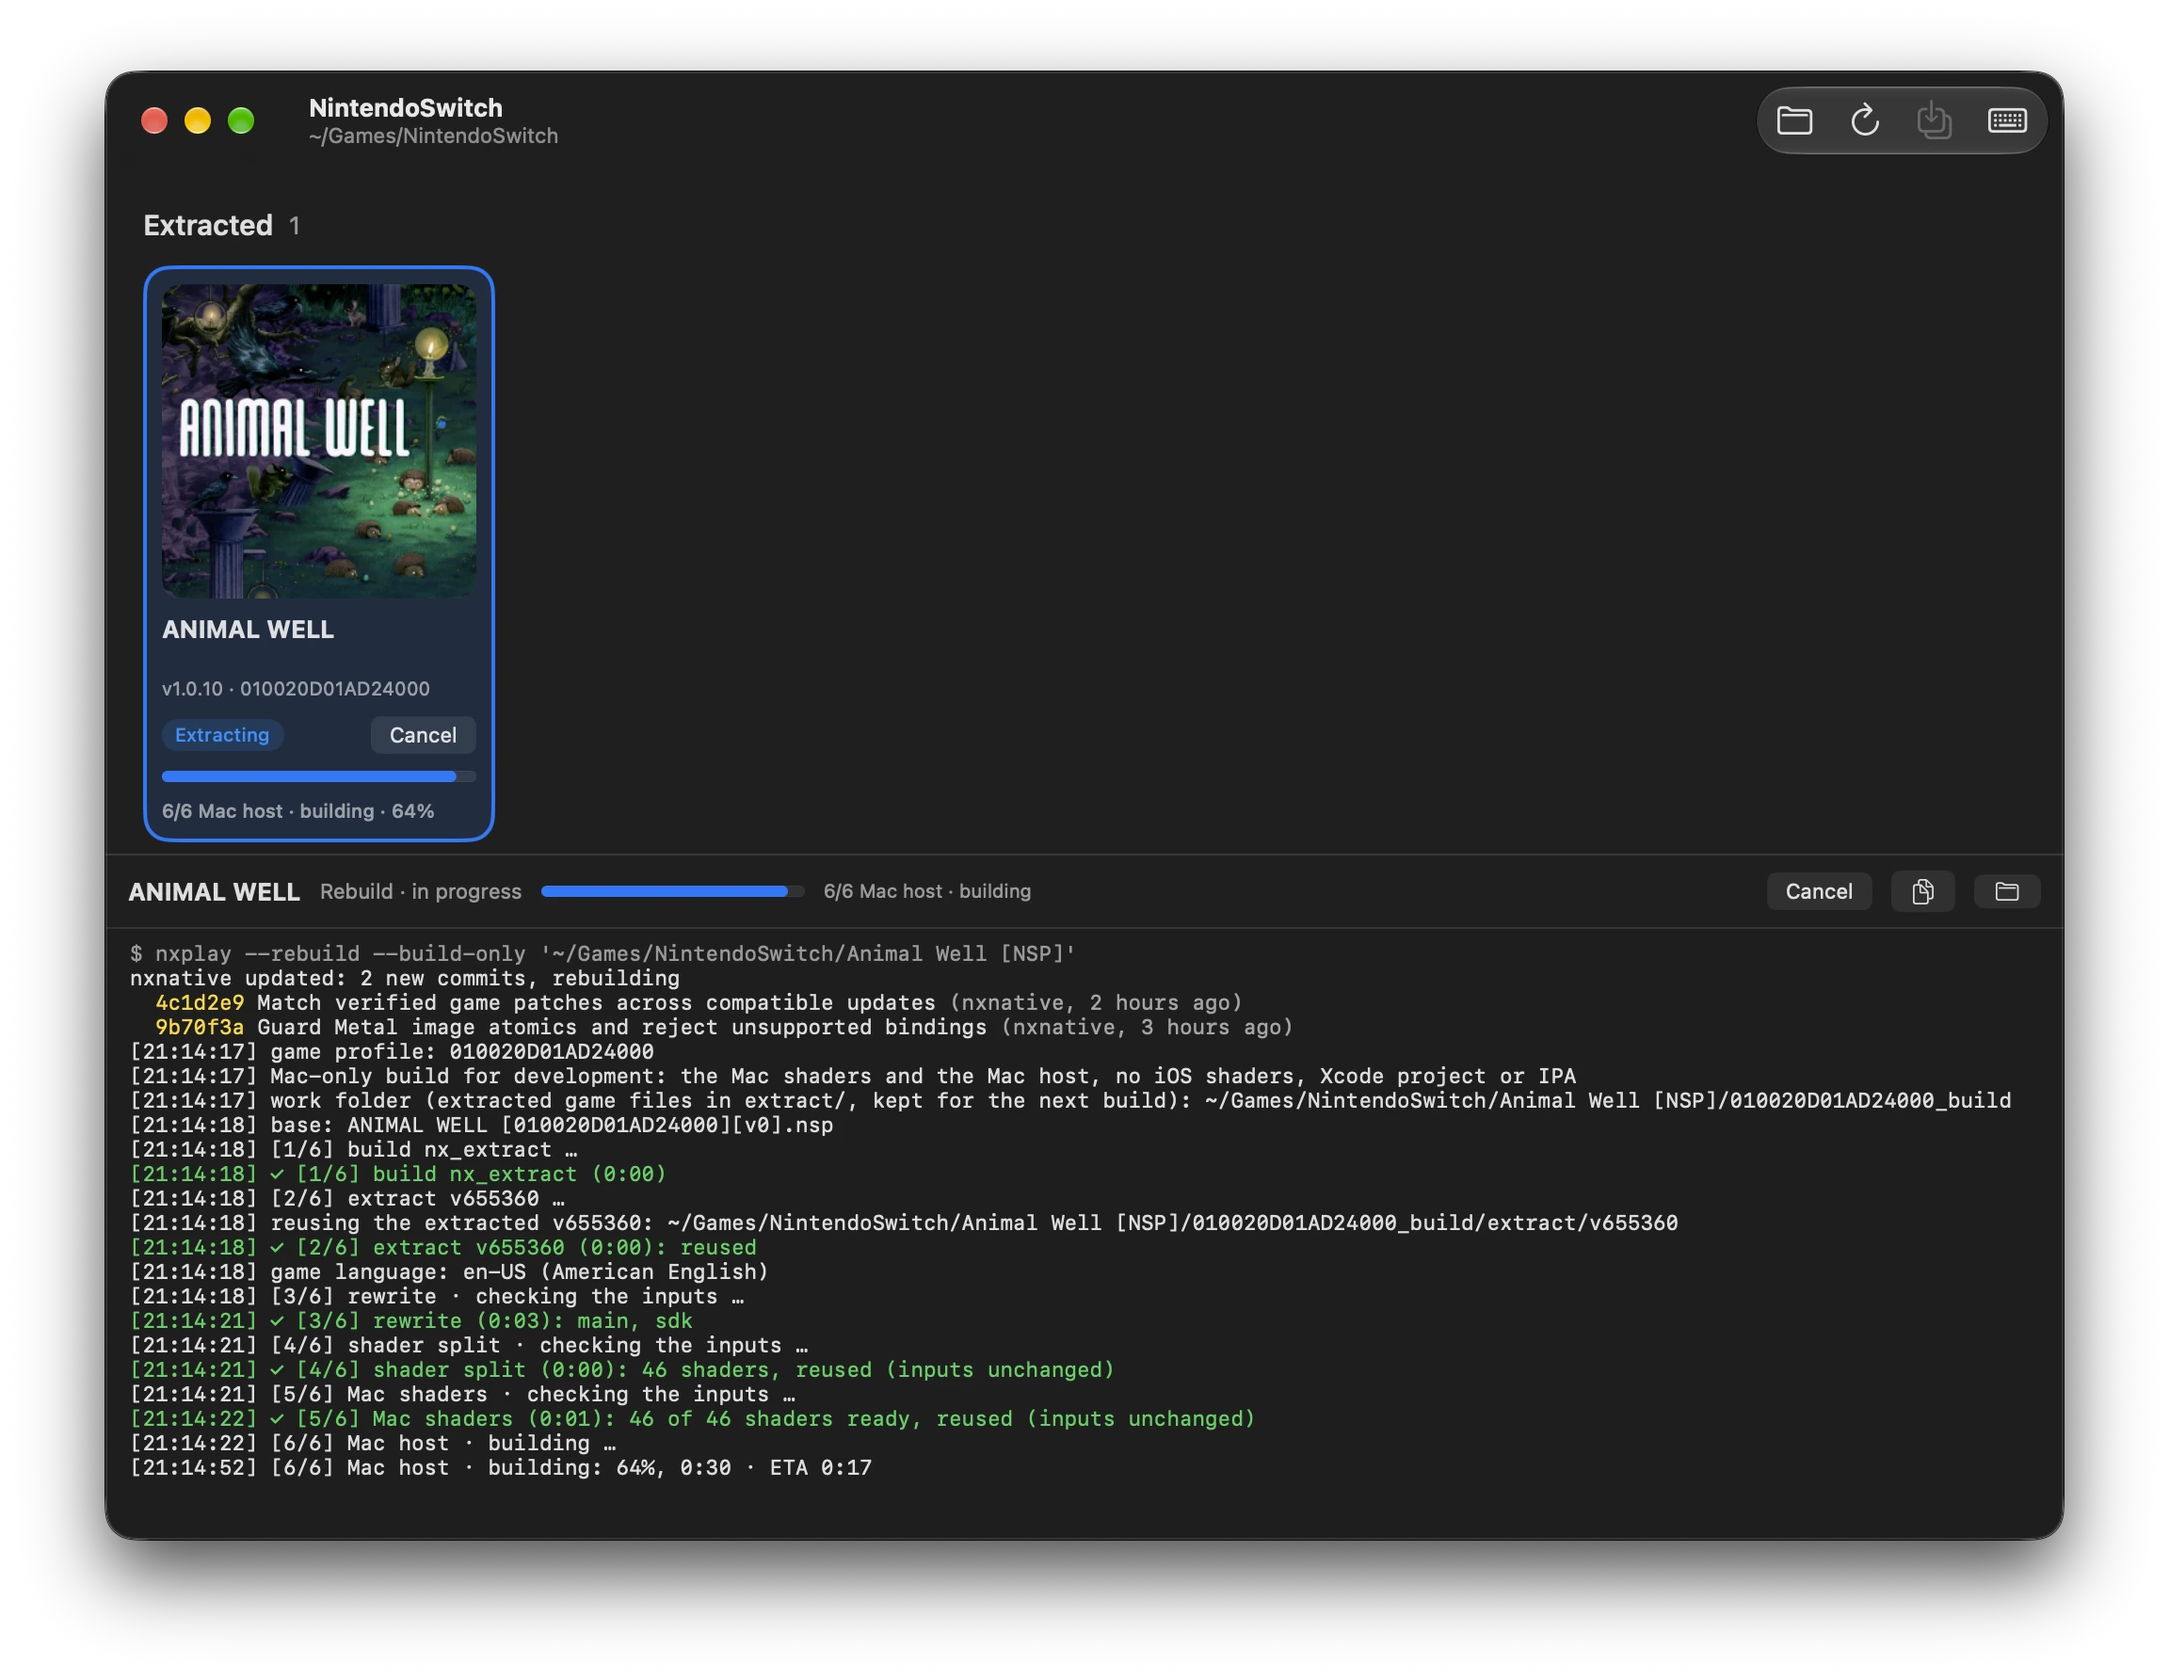
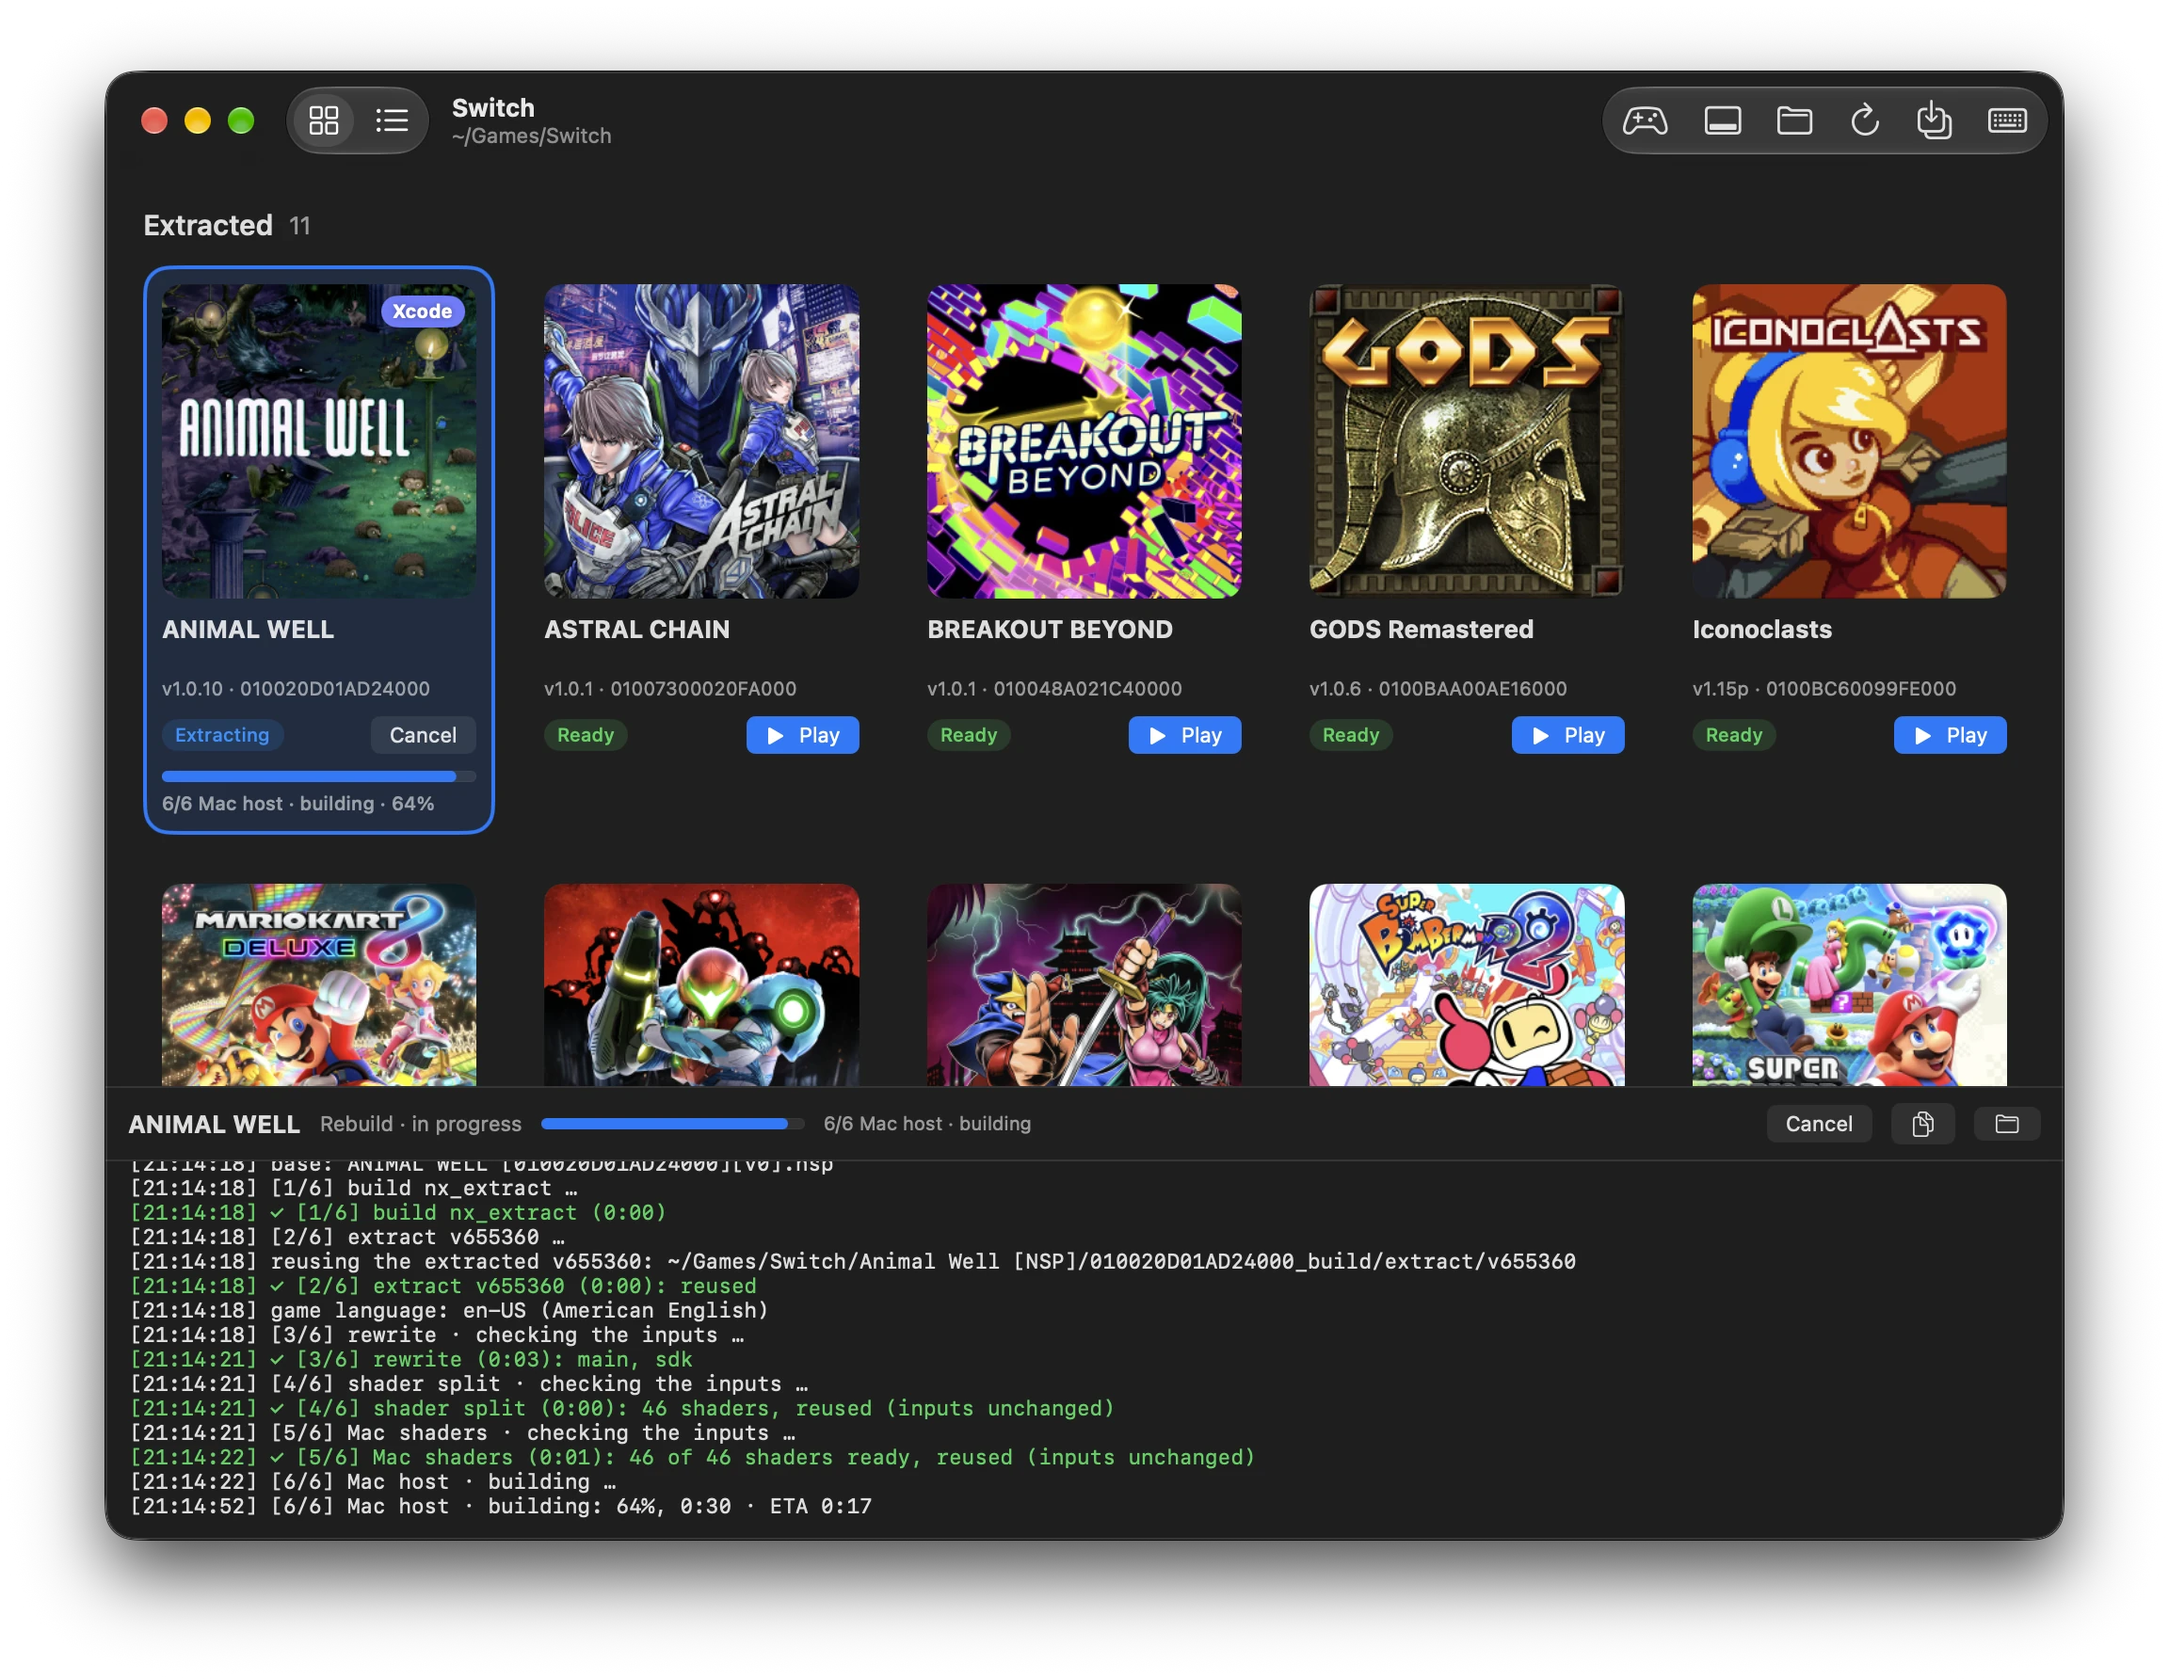
Screenshot the list, Console Mode and Free Up Space
The README showed only the grid, Settings and Transfer Saves, none of what came since. Screenshot mode gains those scenes, a sample controller for Console Mode's hints, and Console Mode in a window rather than across a whole screen; all six now come from ~/Games/Switch.

diff --git a/Packages/NXPlayKit/Sources/NXPlayKit/Screenshots.swift b/Packages/NXPlayKit/Sources/NXPlayKit/Screenshots.swift
@@ -10,6 +10,9 @@
     /// no Xcode accounts, and the settings go to a throwaway defaults suite.
     enum ScreenshotScene: String, CaseIterable {
         case library
+        case list
+        case console
+        case freeUpSpace = "free-up-space"
         case settings
         case transferSaves = "transfer-saves"
     }
@@ -57,8 +60,15 @@
             library.devices = Self.devices
             library.root = root
             library.screenshotScene = scene
+            library.allowOtherMetal = true
+            library.showsLog = scene != .list
 
-            guard let game = library.games.first(where: \.isExtracted) else {
+            // the game the scene is about: one built for the Mac, with its icon, else any extracted one
+            let extracted = library.games.filter(\.isExtracted)
+            guard
+                let game = extracted.first(where: { $0.state == .ready && $0.iconURL != nil })
+                    ?? extracted.first
+            else {
                 report("error: no extracted game in \(root.path)")
                 return library
             }
@@ -66,8 +76,16 @@
             switch scene {
             case .library:
                 library.jobs[game.id] = job(for: game, finished: false)
-            case .settings:
-                break  // RootView opens the Settings window
+            case .list:
+                library.viewStyle = .list
+                library.jobs[game.id] = job(for: game, finished: false)
+            case .console:
+                library.gamepad.sample = ("Pro Controller", 0.8)
+                // the middle of the carousel, so games show on both sides
+                library.selection = extracted[extracted.count / 2].id
+                library.consoleMode = true
+            case .freeUpSpace, .settings:
+                break  // RootView opens their windows
             case .transferSaves:
                 library.jobs[game.id] = job(for: game, finished: true)
                 library.transfer = transfer(for: game)
@@ -177,13 +195,16 @@
             let main = windows.max {
                 $0.frame.width * $0.frame.height < $1.frame.width * $1.frame.height
             }
-            if let main, scene != .settings {
+            let ownWindow = scene == .settings || scene == .freeUpSpace
+            if let main, !ownWindow {
                 main.setContentSize(Self.windowSize)
                 main.center()
             }
-            try? await Task.sleep(for: .seconds(1.5))  // layout, icons, the sheet's animation
+            // layout, icons, the sheet's animation; full screen and Free Up Space's measuring take longer
+            try? await Task.sleep(
+                for: .seconds(scene == .console || scene == .freeUpSpace ? 4 : 1.5))
             let target =
-                scene == .settings
+                ownWindow
                 ? NSApp.windows.first {
                     $0.isVisible && $0 !== main && $0.sheetParent == nil && $0.level == .normal
                 }

diff --git a/Packages/NXPlayKit/Sources/NXPlayKit/Views/RootView.swift b/Packages/NXPlayKit/Sources/NXPlayKit/Views/RootView.swift
@@ -6,6 +6,7 @@ public struct RootView: View {
     @Environment(Library.self) private var library
     #if DEBUG
         @Environment(\.openSettings) private var openSettings
+        @Environment(\.openWindow) private var openWindow
     #endif
 
     public init() {}
@@ -20,7 +21,8 @@ public struct RootView: View {
             .toolbar { toolbar }
             .toolbar(library.consoleMode ? .hidden : .visible, for: .windowToolbar)
             .background(
-                ConsoleWindowController(consoleMode: library.consoleMode) {
+                // screenshots show Console Mode in the window, at the README's size, not across a whole screen
+                ConsoleWindowController(consoleMode: library.consoleMode && !library.isScreenshot) {
                     library.consoleMode = false
                 }
             )
@@ -39,7 +41,12 @@ public struct RootView: View {
                 library.refreshDevices()
             }
             #if DEBUG
-                .task { if library.screenshotScene == .settings { openSettings() } }
+                .task {
+                    if library.screenshotScene == .settings { openSettings() }
+                    if library.screenshotScene == .freeUpSpace {
+                        openWindow(id: CleanupView.windowID)
+                    }
+                }
             #endif
     }
 

diff --git a/Packages/NXPlayKit/Sources/NXPlayKit/Model/Gamepad.swift b/Packages/NXPlayKit/Sources/NXPlayKit/Model/Gamepad.swift
@@ -19,10 +19,14 @@ public final class Gamepad {
     @ObservationIgnored private var held: Command?
     @ObservationIgnored private var repeater: Task<Void, Never>?
 
-    public var name: String? { controller.map { $0.vendorName ?? "Controller" } }
+    /// Screenshot mode: a controller to show, without one connected.
+    var sample: (name: String, battery: Float)?
+
+    public var name: String? { sample?.name ?? controller.map { $0.vendorName ?? "Controller" } }
 
     /// 0…1, when the controller reports its battery.
     public var battery: Float? {
+        if let sample { return sample.battery }
         guard let battery = controller?.battery, battery.batteryState != .unknown else {
             return nil
         }
@@ -47,6 +51,14 @@ public final class Gamepad {
 
     /// The symbol the connected controller prints on a button (Ⓐ, ✕, …), for on-screen hints.
     public func symbol(for command: Command) -> String? {
+        if sample != nil {
+            return switch command {
+            case .confirm: "a.circle"
+            case .back: "b.circle"
+            case .menu: "line.3.horizontal.circle"
+            default: "dpad"
+            }
+        }
         guard let pad = controller?.extendedGamepad else { return nil }
         return switch command {
         case .confirm: pad.buttonA.sfSymbolsName

diff --git a/README.md b/README.md
@@ -60,7 +60,11 @@ Switch/
     └── ….nsz
 ```
 
-Extracted games show their icons and a **Play** button; the others have **Extract**, and **Extract All** builds them one after another. The panel at the bottom shows the selected game's output. Right-click a game for more:
+Extracted games show their icons and a **Play** button; the others have **Extract**, and **Extract All** builds them one after another. The panel at the bottom shows the selected game's output. The toolbar switches between the grid and a sortable list (View › as Grid ⌘1 / as List ⌘2).
+
+![The library as a list, with each game's version, title ID and status](docs/list.webp)
+
+Right-click a game for more, or use the **Game** menu:
 
 - **Install on Device**: builds the game with Xcode, signed with your team, then installs and starts it on a connected iPhone or iPad. The device must be paired with Xcode and in Developer Mode.
 - **Build IPA**: an unsigned IPA in the game folder, for AltStore, Sideloadly and the like.
@@ -78,9 +82,13 @@ Extracted games show their icons and a **Play** button; the others have **Extrac
 
 Pick files one by one, a whole game, or a whole kind. Nothing is selected until you pick it, and deleting needs you to type “yes, I'm sure”. Everything is deleted for good, not moved to the Trash.
 
+![Free Up Space: game files, IPAs and Xcode builds per game, with their sizes](docs/free-up-space.webp)
+
 Settings has the nxnative folder, the keys file, the game language, the Apple team for device installs, and Apple's Metal performance HUD. **Game Controls** (in the menu bar, and the keyboard button in the toolbar) shows the keyboard controls.
 
 **On the couch:** a game controller drives the library. The D-pad or left stick chooses a game, A plays it, and Menu switches to **Console Mode** (also ⇧⌘F): full screen, with the games ready to play as a carousel of their artwork, the clock, and the controller's button hints. Games started from it open full screen; Settings can make every game start that way. B or Esc goes back.
+
+![Console Mode: the playable games as a carousel, with the controller's button hints](docs/console.webp)
 
 <img src="docs/settings.webp" alt="NX Play's Settings" width="560">
 
@@ -147,7 +155,7 @@ To work in Xcode, run `xcodegen generate` (or `mise run generate`) and open `NXP
 
 `Package.swift` in the root exists only so SourceKit-LSP (Zed, VS Code, …) understands the app's sources; build and test with the Xcode project and `Packages/NXPlayKit`.
 
-`bin/screenshots [games folder]` regenerates the screenshots in `docs/`. It needs a folder with at least one extracted game (default `~/Games/NintendoSwitch`), and it shows that game's name and icon. Everything else is sample data: paths under `~`, an example team and devices, a scripted build log. The data lives in `Screenshots.swift`, which only Debug builds include. It needs `cwebp` (`brew install webp`) and Screen Recording permission for your terminal.
+`bin/screenshots [games folder]` regenerates the screenshots in `docs/`. It needs a folder with at least one extracted game (default `~/Games/Switch`), and it shows the folder's real games, with their names and icons. Everything else is sample data: paths under `~`, an example team, devices and controller, a scripted build log. `bin/screenshots ~/Games/Switch console` redoes just one scene (library, list, console, free-up-space, settings, transfer-saves). The data lives in `Screenshots.swift`, which only Debug builds include. It needs `cwebp` (`brew install webp`) and Screen Recording permission for your terminal.
 
 ## License
 
